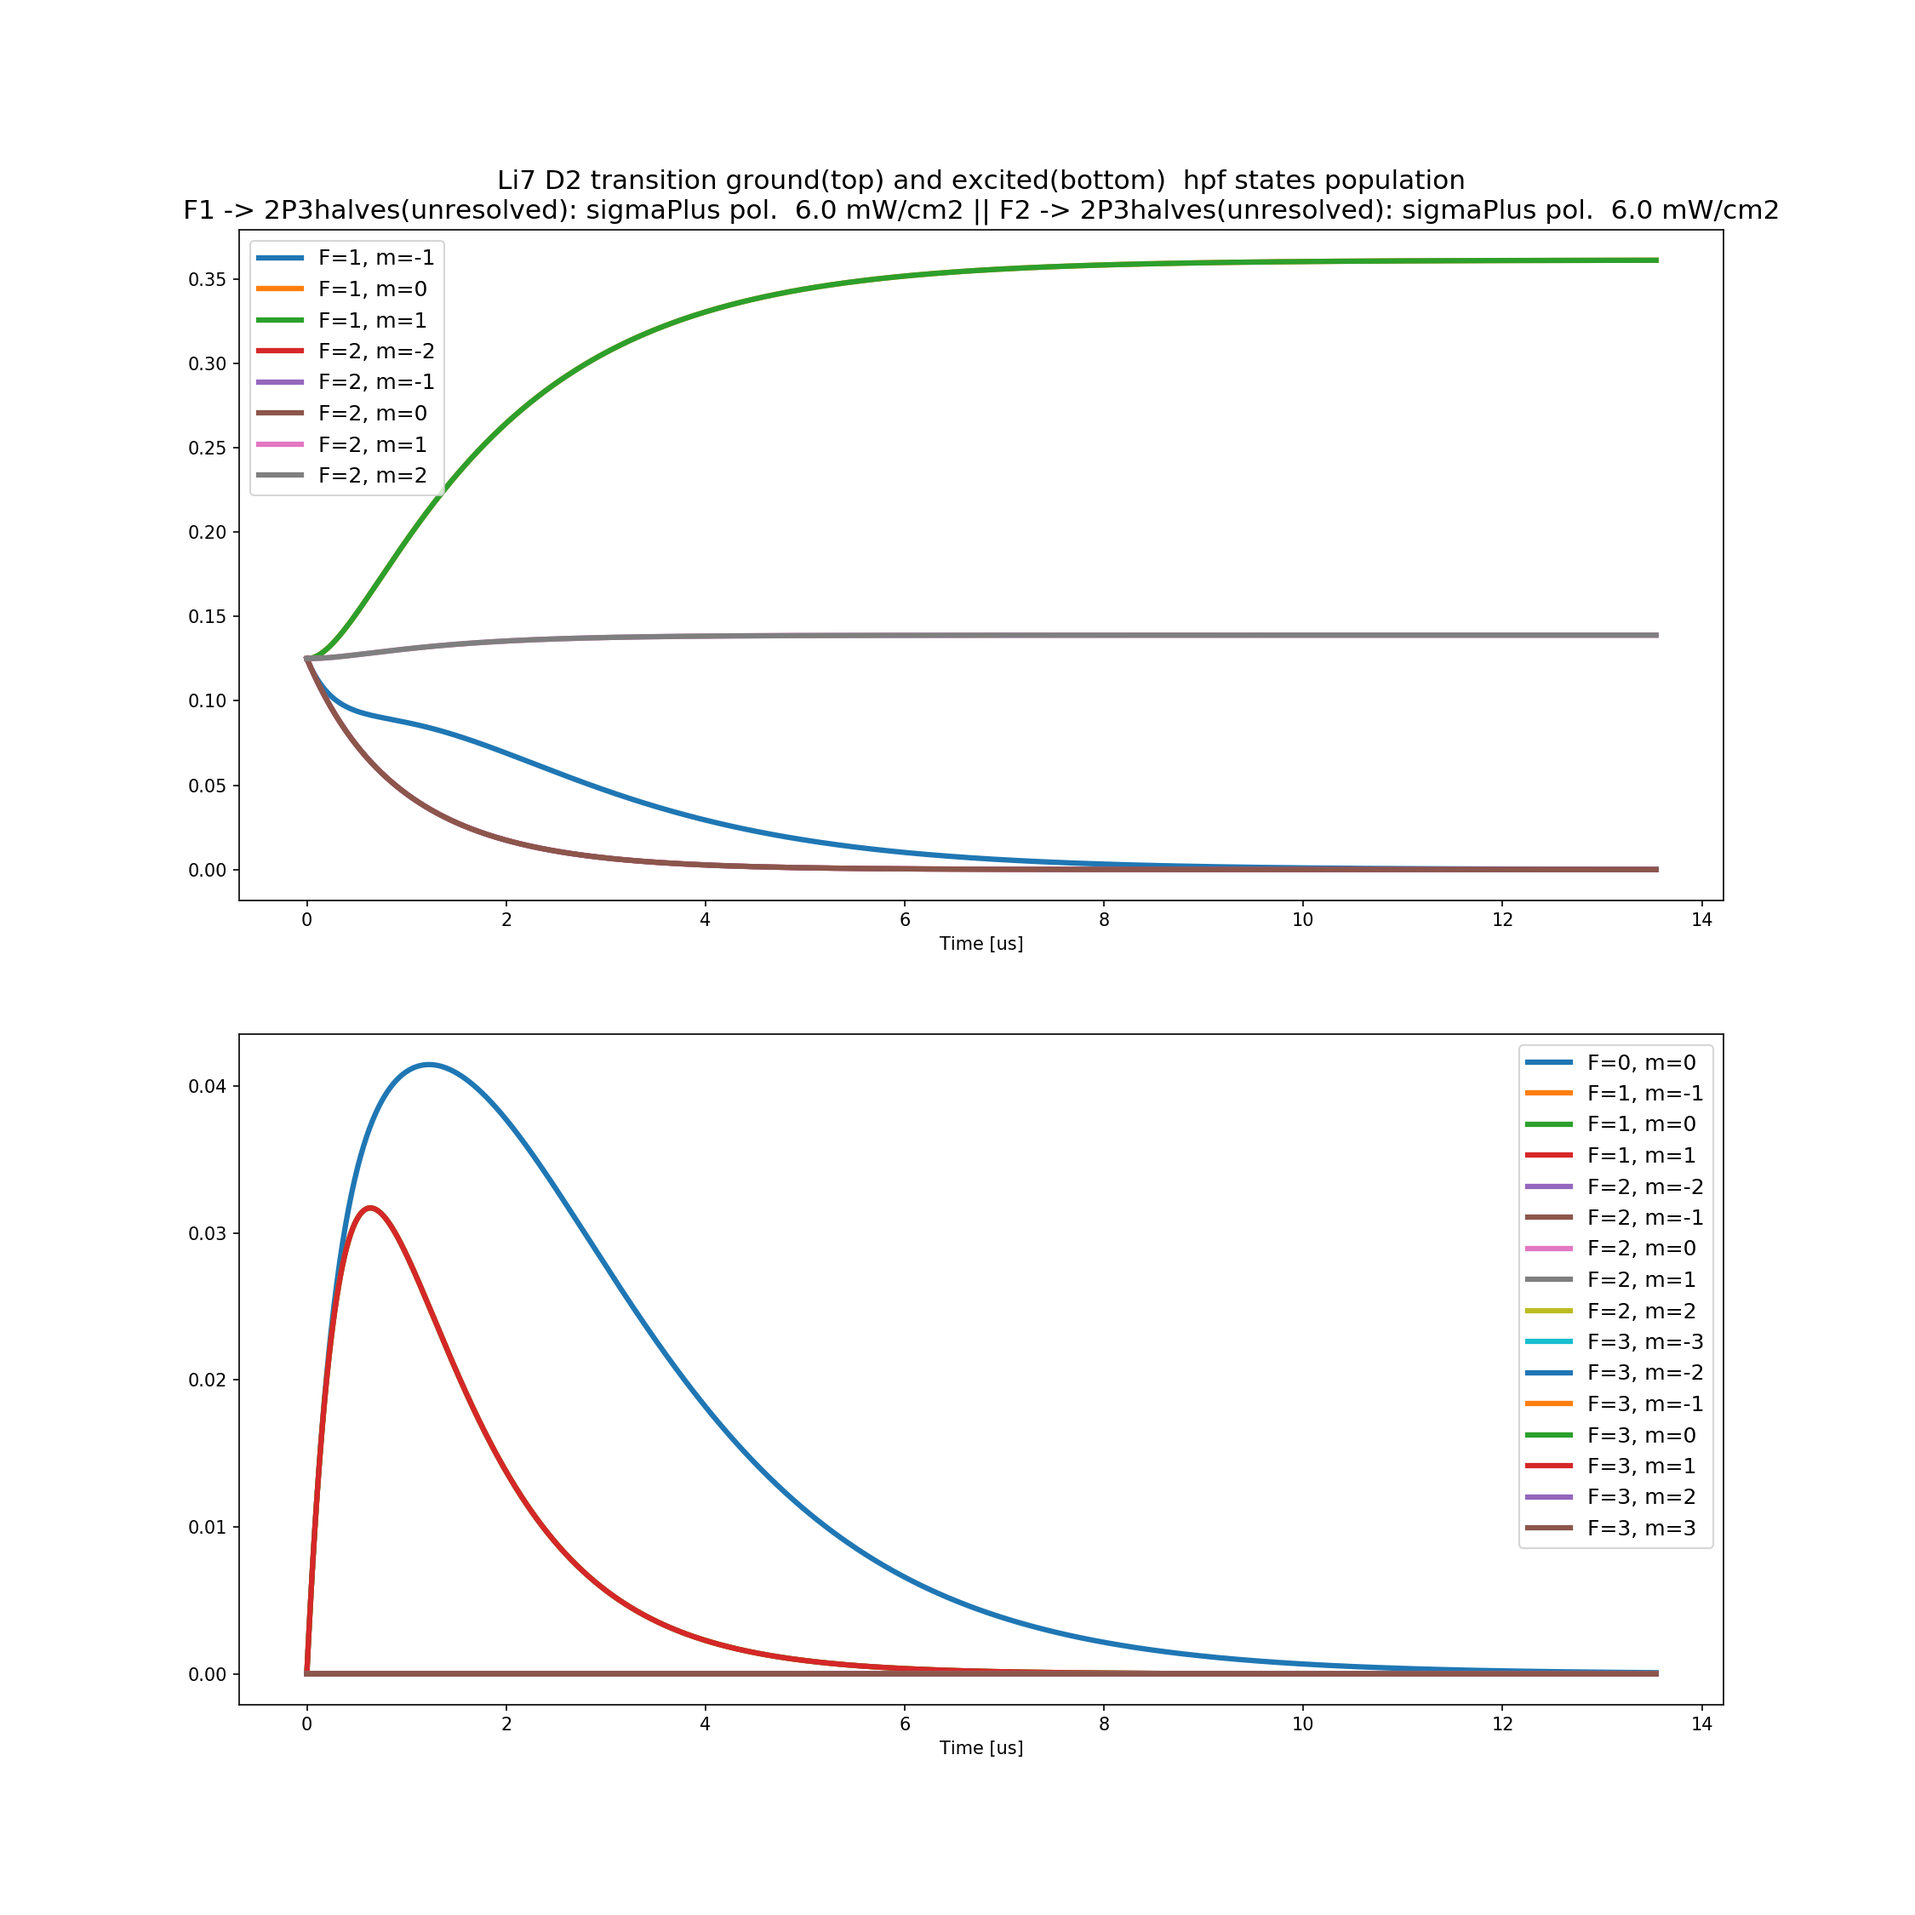
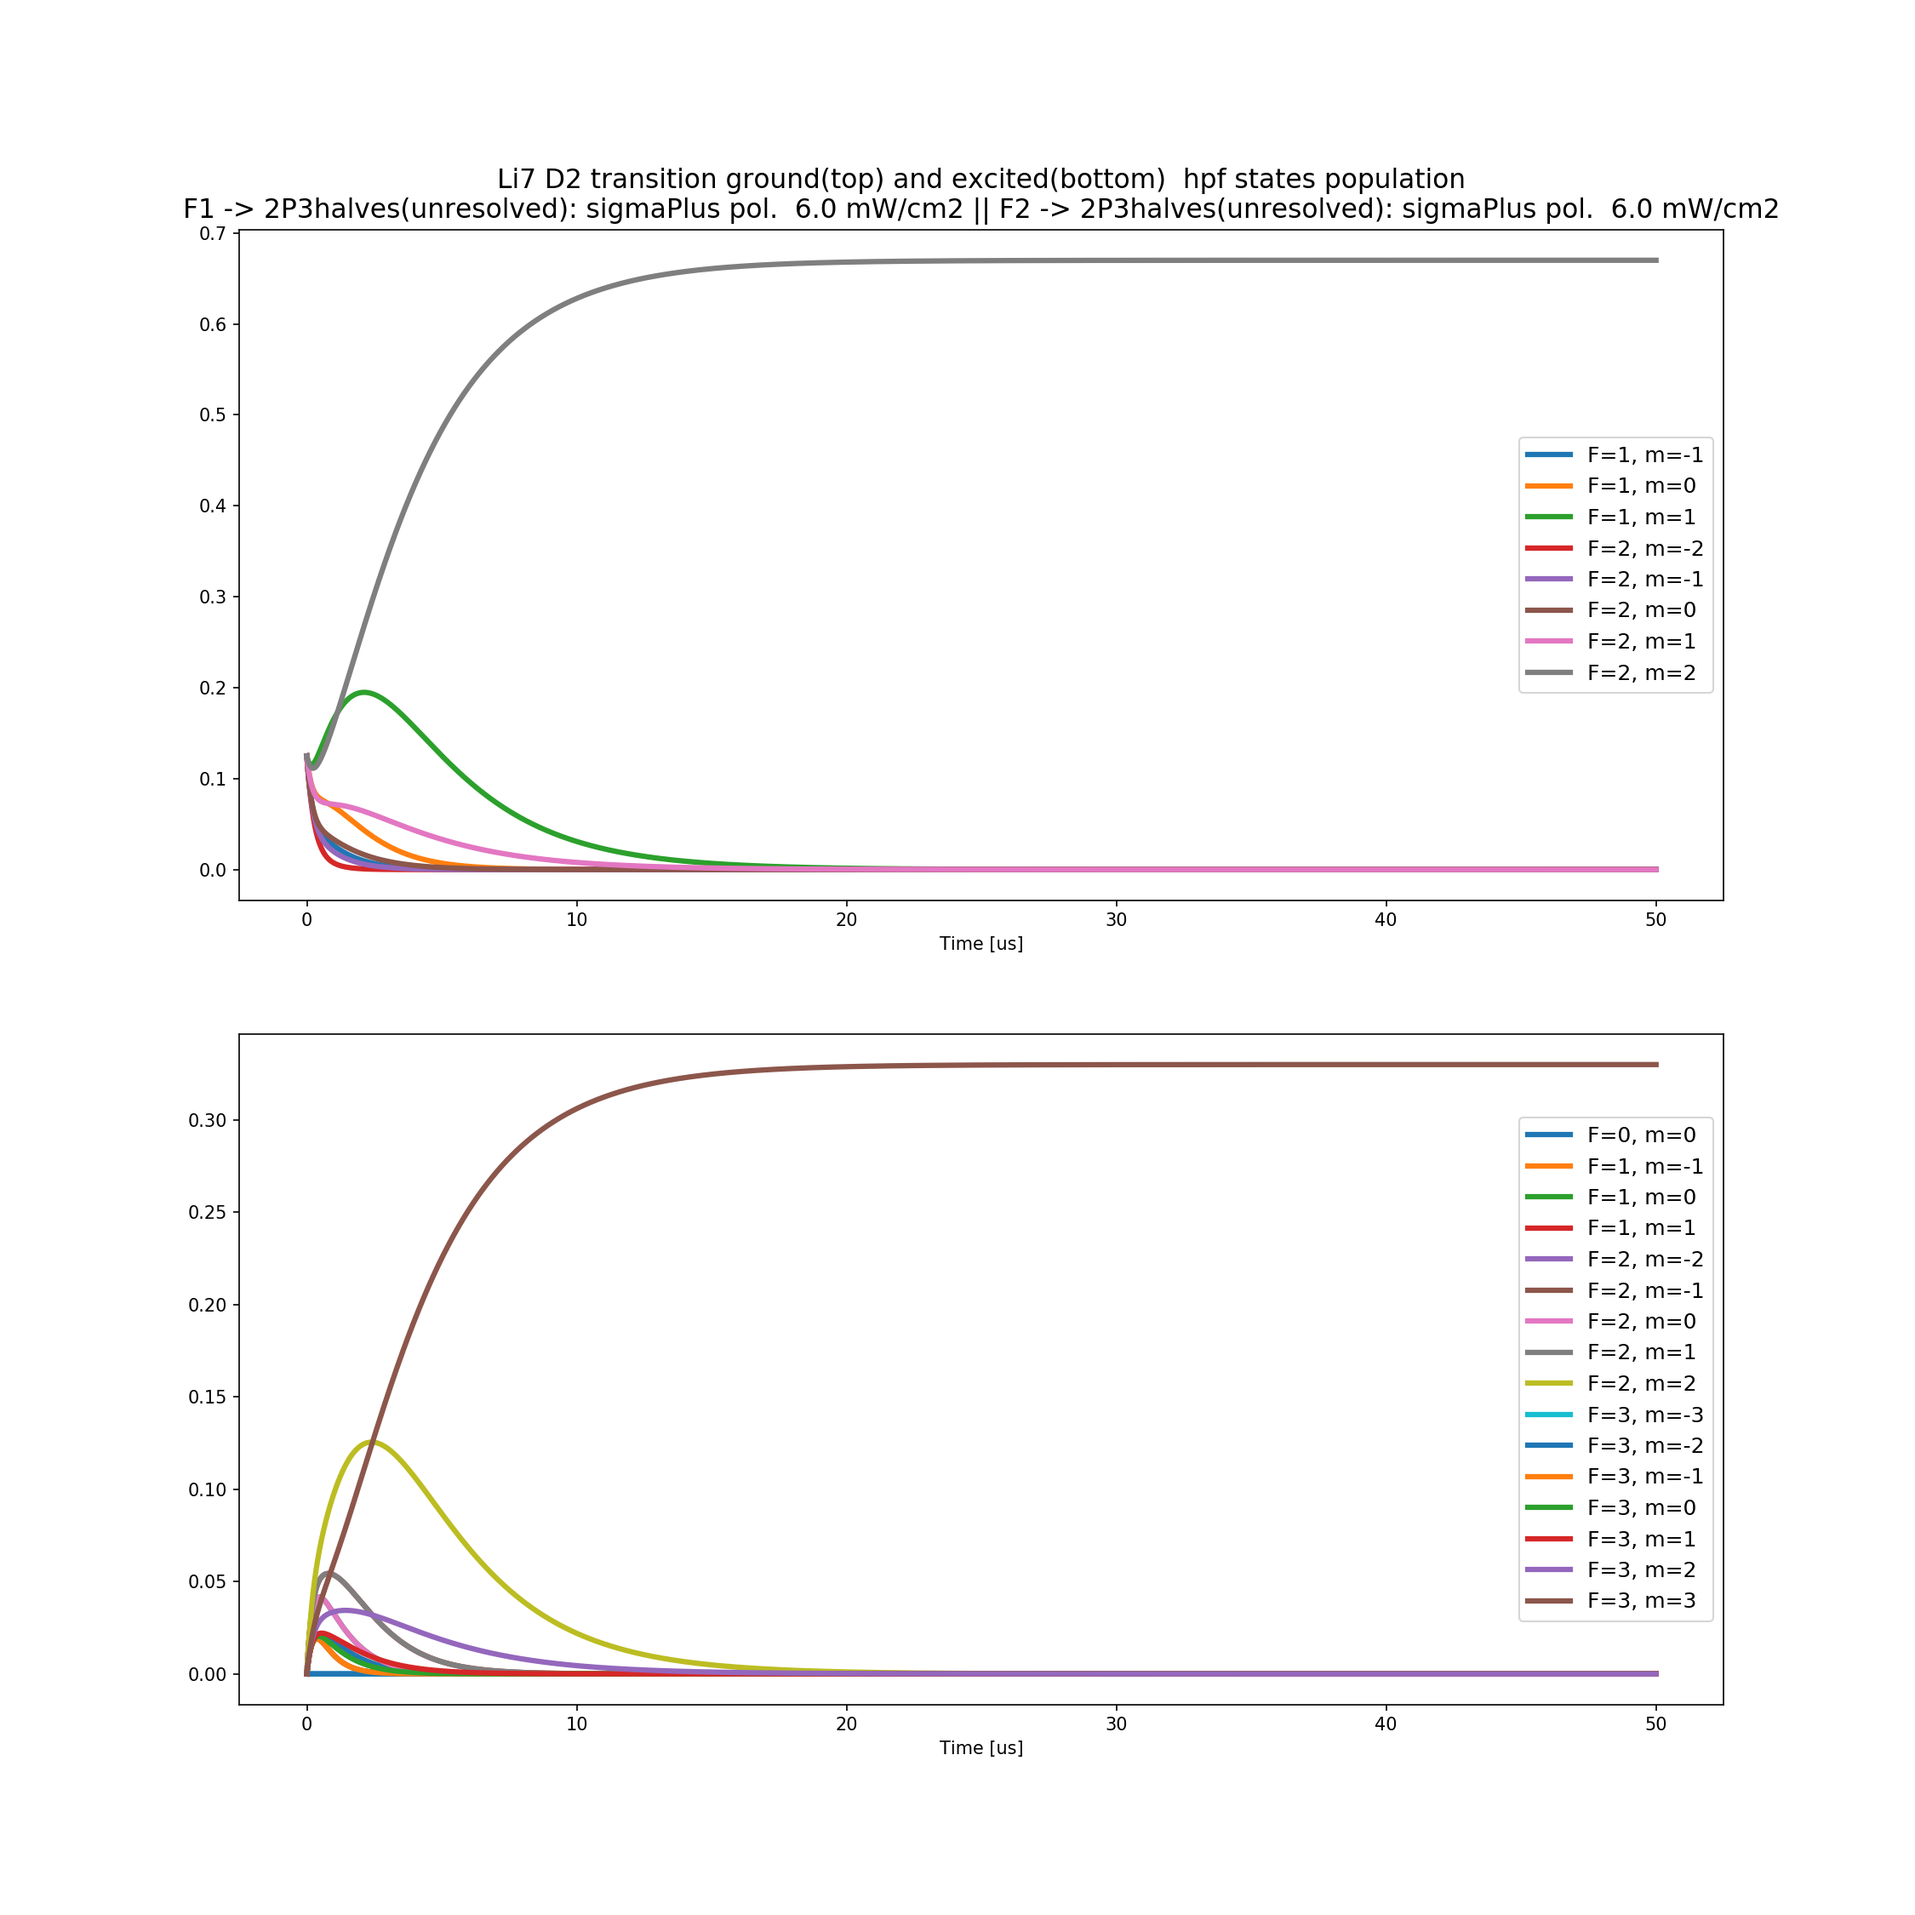
bug fixed #6

diff --git a/optPumping.py b/optPumping.py
@@ -9,9 +9,9 @@
 # 
 # Created: Sun Sep 17 16:36:41 2017 (-0500)
 # Version: 
-# Last-Updated: Mon Oct  9 22:54:02 2017 (-0500)
+# Last-Updated: Sun Oct 15 15:17:24 2017 (-0500)
 #           By: yulu
-#     Update #: 388
+#     Update #: 402
 # 
 
 import numpy as np
@@ -33,7 +33,7 @@ class optPumping:
                 from TransitionStrength import TransStrengthD1_toF2 as TransStrength
                 from TransitionStrength import DecayStrengthD1_toF2 as DecayStrength
             else:
-                print("D1 line has not excited hpf states ", Dline)
+                print("D1 line has not excited hpf state ", Dline)
         elif Dline == 'D2':
             self.gamma = gamma 
             from TransitionStrength import TransStrengthD2 as TransStrength
@@ -73,7 +73,7 @@ class optPumping:
         
         # Initialize number of excited hyperfine magnetic substates F
         # ---------------------------------------------------------------------------
-        self.numEStates = len(DecayStrength.numSubStates)
+        # self.numEStates = len(DecayStrength.numSubStates)
 
         # Initialize excited hyperfine states name
         # ---------------------------------------------------------------------------
@@ -126,7 +126,8 @@ class optPumping:
         """
         from constant import hBar, e0 ,c
         einsteinAFactor = (2 * np.pi * self.freq)**3 / (3 * np.pi * e0 * hBar * c**3)
-        return einsteinAFactor * (trans * self.dipoleFactor)
+        einsteinA = einsteinAFactor * (trans * self.dipoleFactor)
+        return einsteinA
 
     def omega(self, trans, I):
         """
@@ -147,12 +148,15 @@ class optPumping:
         hpf_gamma = (2 * np.pi * self.freq)**3 /(3 * np.pi * e0 * hBar * c**3) * trans * self.dipoleFactor
         x, y = hpf_gamma.shape
         factor = np.zeros([x, y])
-        for i, j in zip(range(x), range(y)):
-            # Avoid divided by 0 issue 
-            if hpf_gamma[i,j]== 0:
-                factor[i,j] = 0
-            else:
-                factor[i,j] = hpf_gamma[i,j] / 2 / ((hpf_gamma[i,j] / 2)**2 + detune**2) 
+        for i in range(x):
+            for j in range(y):
+                # Avoid divided by 0 issue 
+                if hpf_gamma[i,j]== 0:
+                    factor[i,j] = 0
+                else:
+                    factor[i,j] = hpf_gamma[i,j] / 2 / ((hpf_gamma[i,j] / 2)**2 + detune**2)
+                    #print('true')
+                    #print(factor[i,j])
         return factor
     
     

diff --git a/functions.py b/functions.py
@@ -9,9 +9,9 @@
 # 
 # Created: Mon Oct  9 10:16:45 2017 (-0500)
 # Version: 
-# Last-Updated: Wed Oct 11 17:09:59 2017 (-0500)
-#           By: superlu
-#     Update #: 162
+# Last-Updated: Sun Oct 15 15:20:44 2017 (-0500)
+#           By: yulu
+#     Update #: 165
 # 
 
 
@@ -65,7 +65,7 @@ def runSimu(Dline,
     numSteps = int(maxSimulationTime / dt)
 
     
-    autoStop = True 
+    autoStop = False
     breakIdx = 0
     for i in range(numSteps):
         if i == 0:
